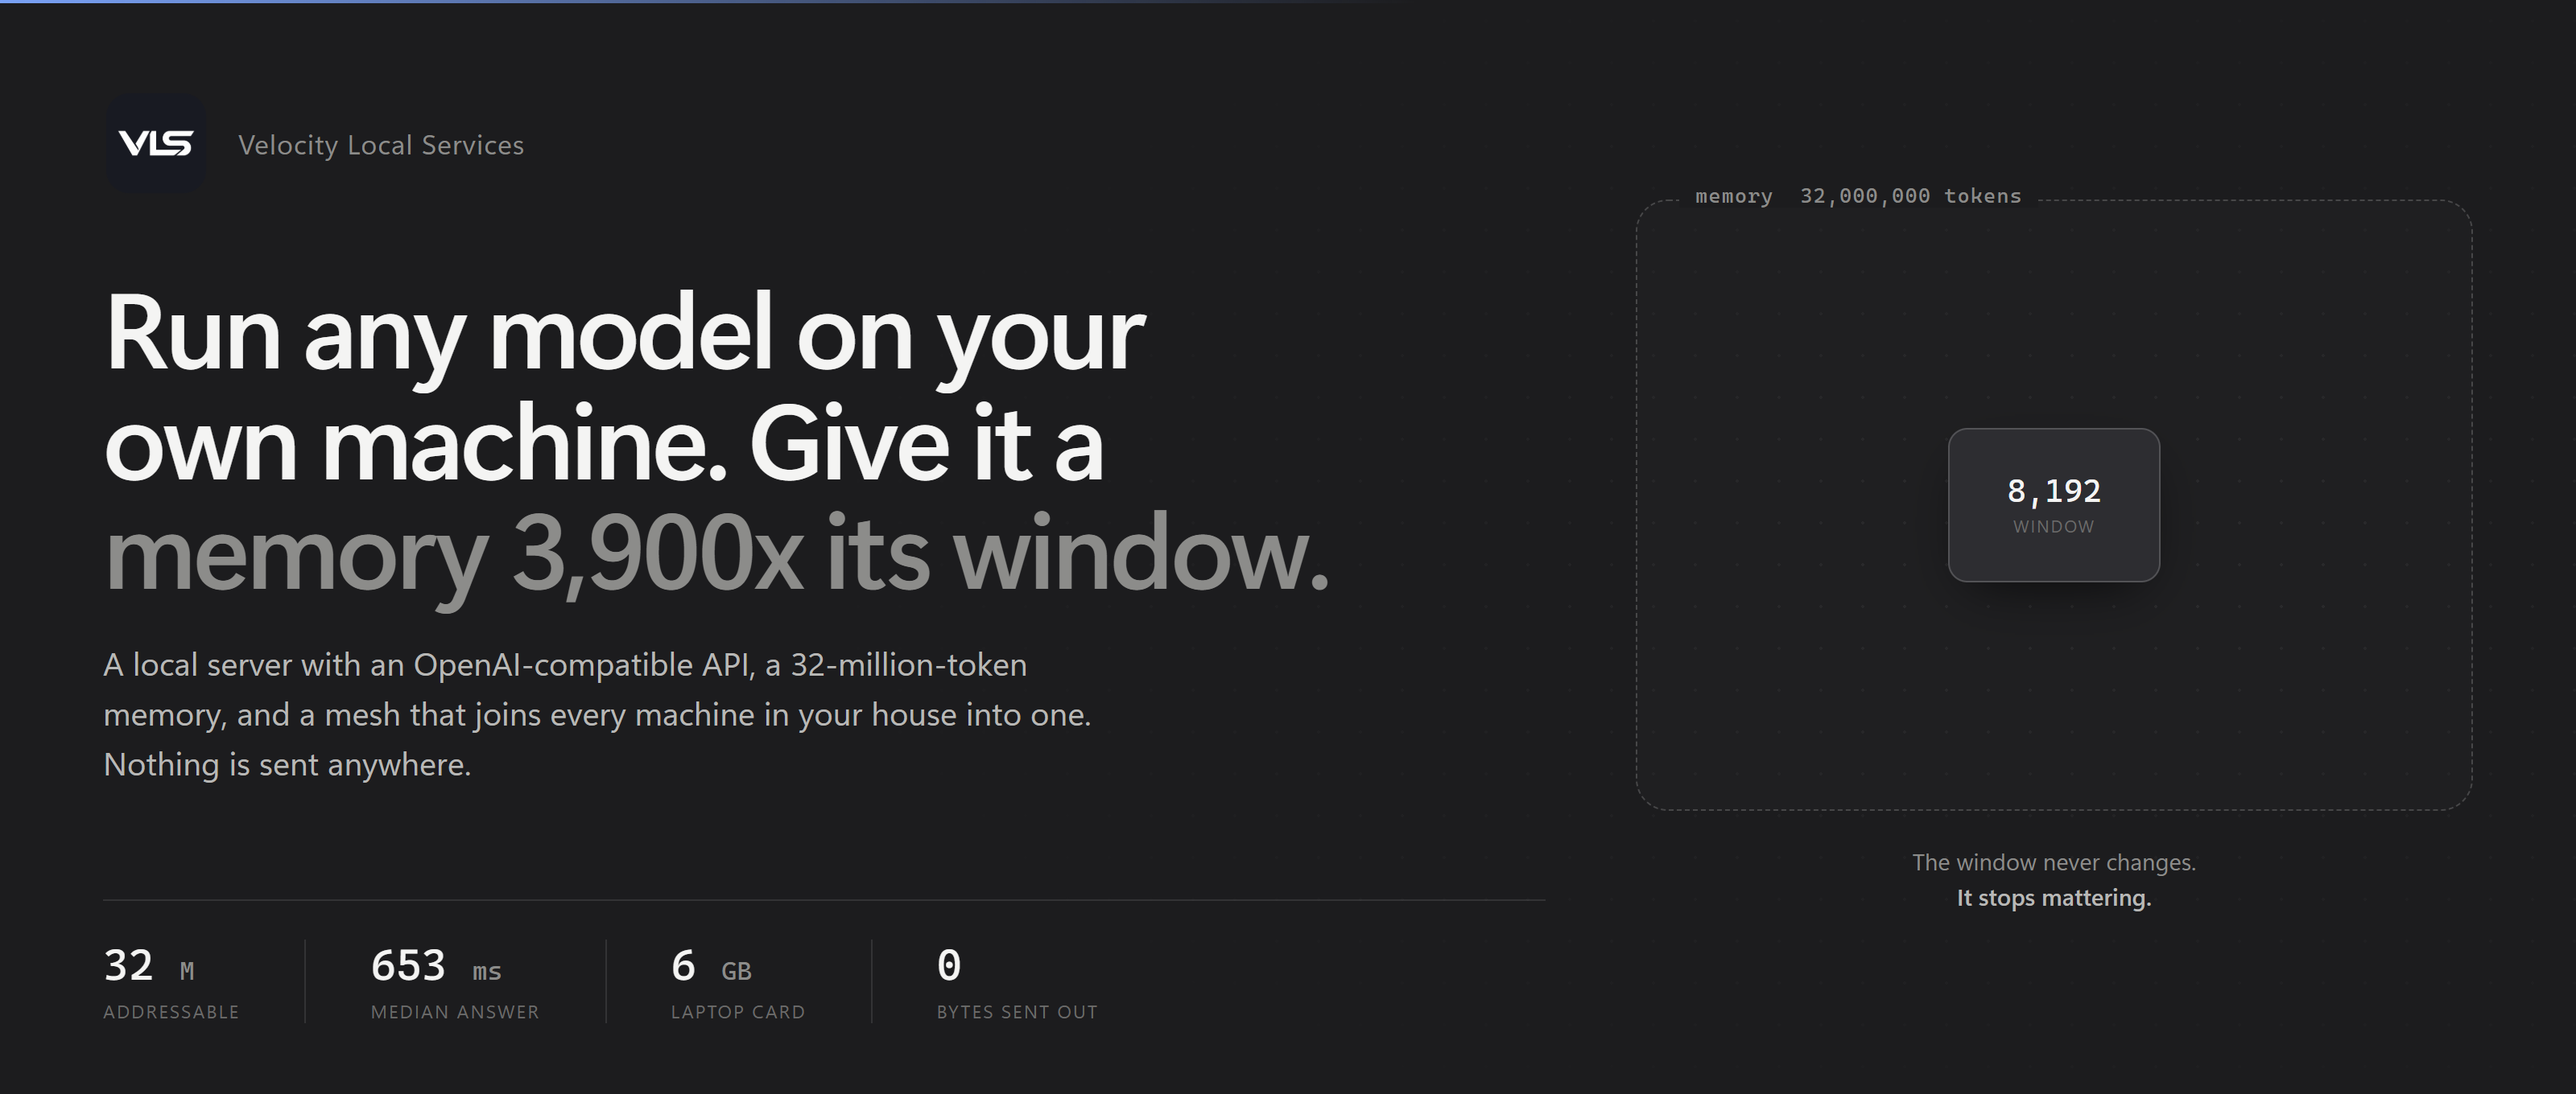
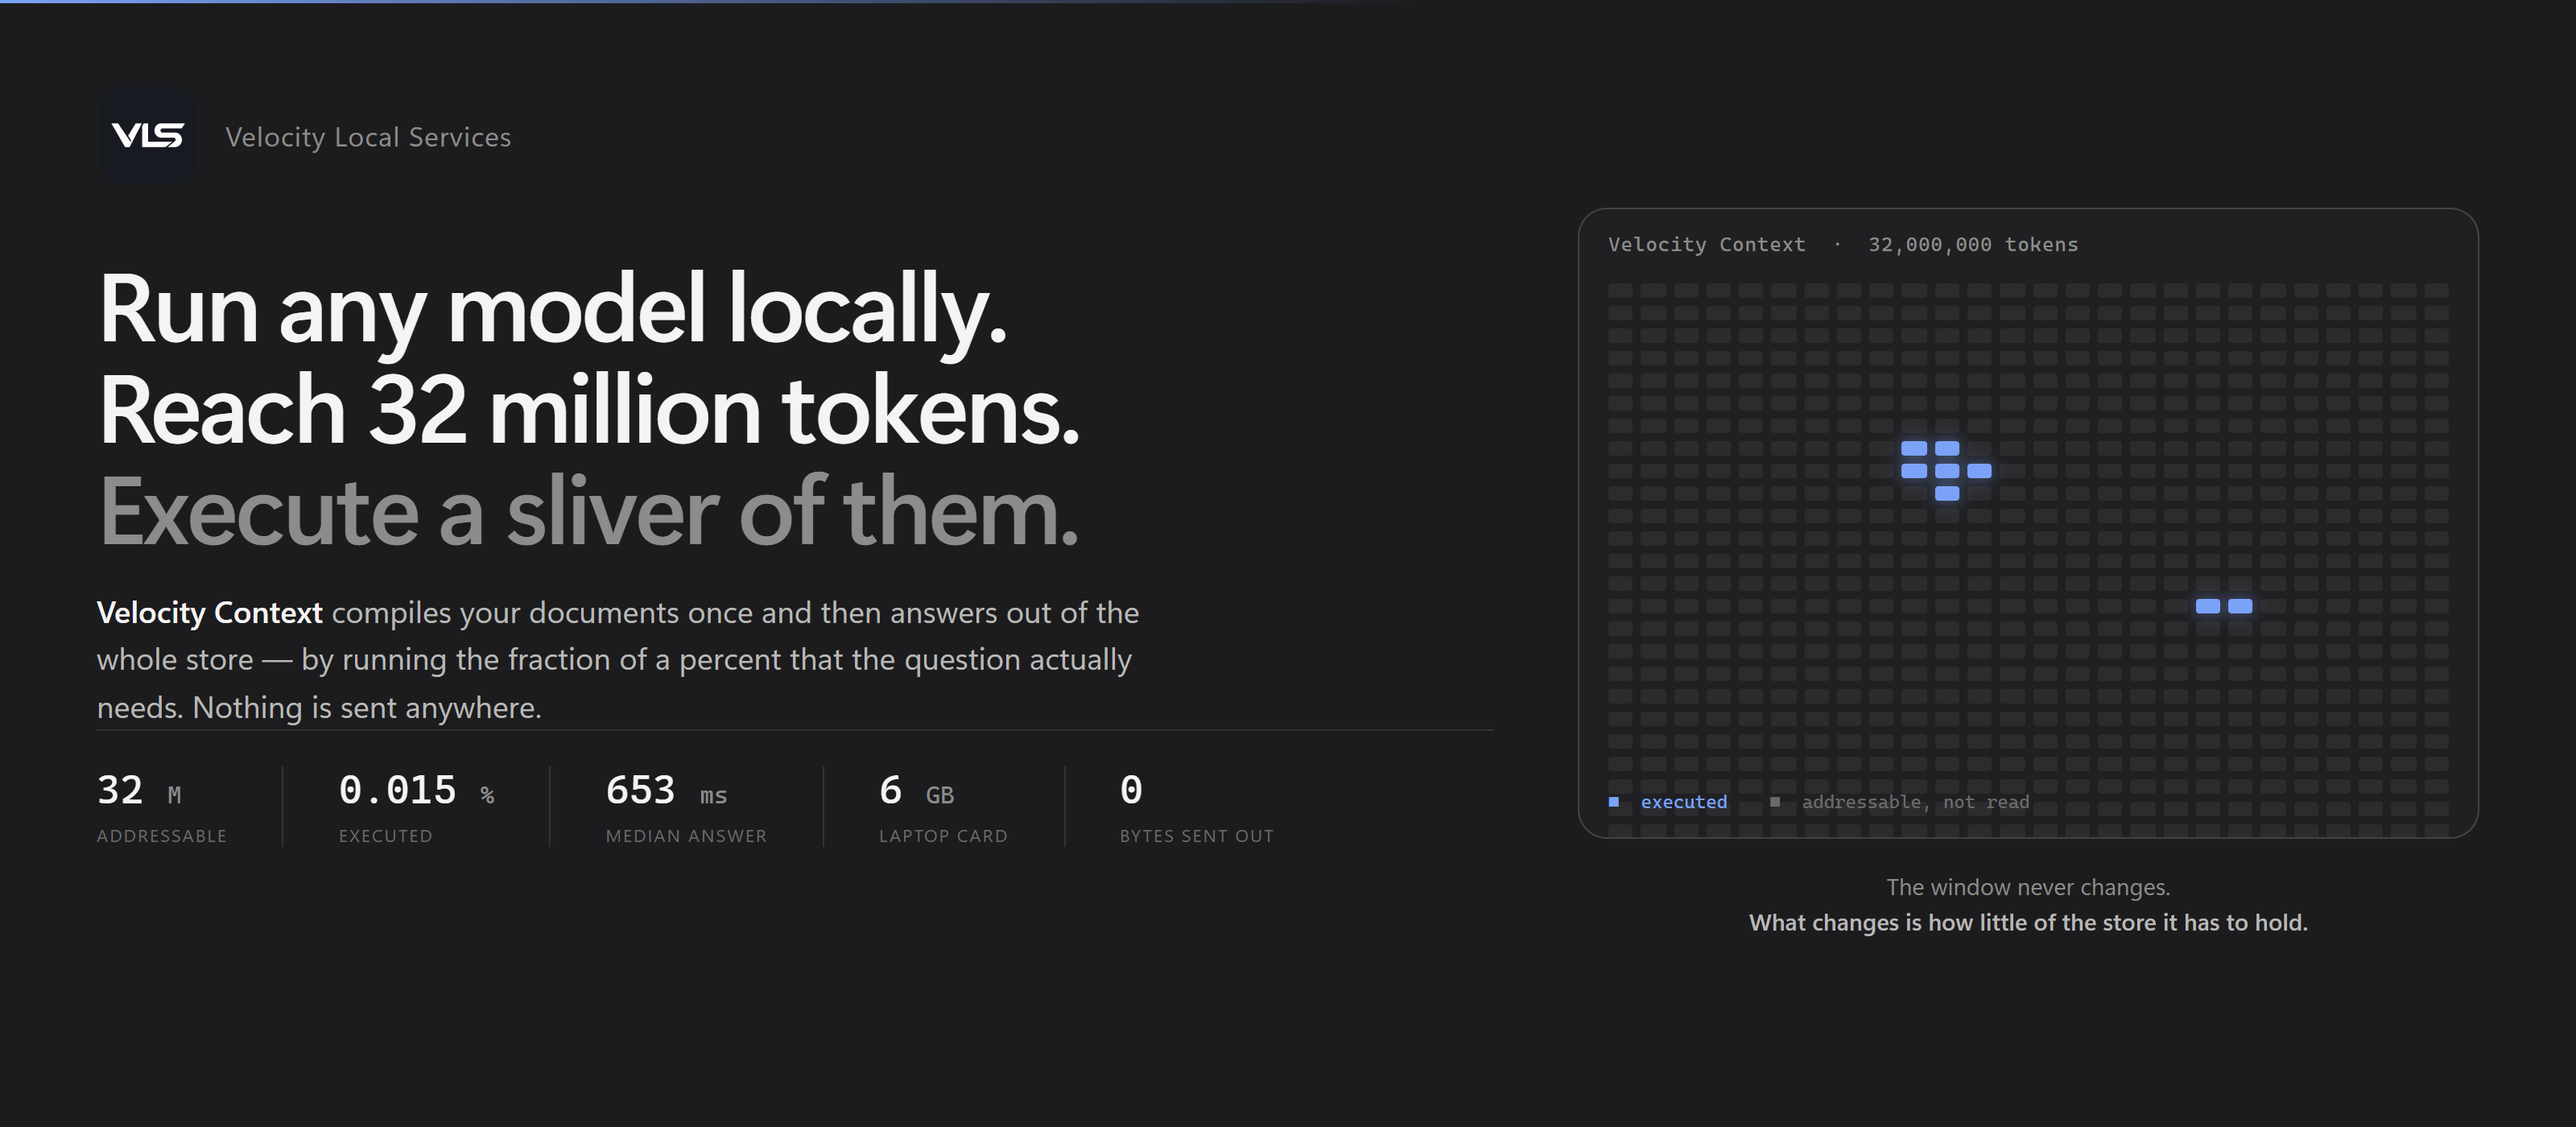
Call the technology by its name, and show what it actually does
The README described "a memory" and the banner drew a big box with a small box inside it. Both
were describing a side effect. The technology is Velocity Context, it has a name, and what makes
it worth having is not that the store is large - it is how little of the store a question runs.

The banner now draws that: every window in the store as a field of ticks, with the handful that
were executed lit. Five figures under it, and the one that matters is 0.015 percent.

The README gains a section for it with the measured numbers - 90 tokens of 128,000, 152 of a
million - labelled with the harness they came from and the null-context control that makes them
mean anything, and kept apart from the RULER tables rather than blended into them.

diff --git a/README.md b/README.md
@@ -1,6 +1,6 @@
 <div align="center">
 
-<img src=".github/banner.png" alt="VLS — run any model on your own machine, and give it a memory 3,900x its window" width="100%">
+<img src=".github/banner.png" alt="VLS — Velocity Context: reach 32 million tokens, execute a fraction of a percent" width="100%">
 
 <br><br>
 
@@ -19,7 +19,7 @@
 
 <div align="center">
 
-**[Install](#install)** &nbsp;·&nbsp; **[The 32M context](#the-32-million-token-context)** &nbsp;·&nbsp; **[Everything in it](#everything-in-it)** &nbsp;·&nbsp; **[Mesh](#5-mesh--every-machine-in-your-house-as-one)** &nbsp;·&nbsp; **[Benchmarks](#measured-not-claimed)** &nbsp;·&nbsp; **[API](#connect-anything)** &nbsp;·&nbsp; **[FAQ](#questions-people-actually-ask)**
+**[Install](#install)** &nbsp;·&nbsp; **[Velocity Context](#velocity-context)** &nbsp;·&nbsp; **[Everything in it](#everything-in-it)** &nbsp;·&nbsp; **[Mesh](#5-mesh--every-machine-in-your-house-as-one)** &nbsp;·&nbsp; **[Benchmarks](#measured-not-claimed)** &nbsp;·&nbsp; **[API](#connect-anything)** &nbsp;·&nbsp; **[FAQ](#questions-people-actually-ask)**
 
 </div>
 
@@ -67,7 +67,7 @@ it, and the usual answers are all bad ones:
   and hope the chunks that come back are the right ones. When the answer is wrong you cannot tell
   whether the model failed or the retrieval did.
 
-**VLS gives the model a memory instead of a bigger window.**
+**Velocity Context gives the model a store to reach into, instead of a bigger window.**
 
 You compile a folder once. Every question after that reaches the whole of it: the service works out
 which passages the answer needs, hands the model only those, and shows you a receipt of exactly
@@ -83,9 +83,11 @@ what it read. The model's window never changes — it stops mattering.
 
 ---
 
-## The 32-million-token context
+<a name="velocity-context"></a>
+## Velocity Context
 
-This is the part worth understanding, because it is not what people assume.
+This is our technology and the reason VLS exists. It is worth understanding, because it is not
+what people assume.
 
 ### It is not RAG
 
@@ -97,6 +99,28 @@ of its words are rare in this particular corpus, finds the windows that hold the
 from those windows to the ones they point at — a second hop, for questions whose answer sits beside
 somebody the question never named — and assembles what fits. A single linear pass over token ids
 with a hash lookup, which is what makes 32 million affordable without a GPU touching it.
+
+### How little of it runs
+
+This is the number the whole design is for, and it is the one people do not expect.
+
+A question does not read the store. It reaches into it — so what the model executes is a fraction
+of a percent of what it can reach, and that fraction *falls* as the store grows.
+
+| store | median tokens executed to answer | share of the store |
+|---|---:|---:|
+| 128 000 tokens | 90 | **0.07 %** |
+| 1 000 000 tokens | 152 | **0.015 %** |
+
+<sub>BABILong QA1 on the official lane, 100 samples each, same laptop. This is a different harness
+from the RULER tables further down and the two are never mixed: BABILong measures whether a fact
+planted in a haystack comes back, and it reports what was executed to get it. Scores on that lane
+were 92.0% at 128k and 86.0% at 1M, against <b>0.0%</b> for the same prompts with the text removed —
+the control that makes the rest of it mean anything.</sub>
+
+A conventional long-context model pays for every token in the window on every turn, in memory and
+in time. Velocity Context pays for the passage and leaves the rest on disk, which is why the answer
+takes the same half second whether the store holds one million tokens or thirty-two.
 
 ### What it costs
 
@@ -171,7 +195,7 @@ and it reads their headers without loading anything.
 
 <img src=".github/playground.png" alt="Playground" width="100%">
 
-Talk to the loaded model with a memory attached. A reasoning model's working is shown **as it
+Talk to the loaded model with a Velocity Context attached. A reasoning model's working is shown **as it
 happens** rather than behind a spinner, and **thinking is a switch beside the message box**, per
 conversation rather than per installation: on for a hard question, off for a lookup. On a short
 factual question that is the difference between 4.1 seconds and 0.2.
@@ -299,13 +323,13 @@ published 13-task RULER average, and we do not present it as one.</sub>
 
 ## Built on
 
-VLS is a **router with a memory**, not an inference engine of its own. Work goes to whichever
+VLS is a **router with Velocity Context behind it**, not an inference engine of its own. Work goes to whichever
 backend suits the model, and we are explicit about which parts are ours and which are other
 people's.
 
 | layer | what it is | whose |
 |---|---|---|
-| **Velocity Context** | The 32M-token memory: compiles documents, selects the passages a question needs, hands the model only those. This is what makes a small window stop mattering. | **ours** |
+| **Velocity Context** | Compiles your documents once, selects the passages a question needs, and hands the model only those — a fraction of a percent of the store per question. This is the technology; it is what makes a small window stop mattering. | **ours** |
 | **[llama.cpp](https://github.com/ggml-org/llama.cpp)** | The GGUF inference engine underneath every model VLS runs today. Georgi Gerganov and the ggml authors, MIT. We ship their `llama-server` unmodified. | *theirs* |
 | **Velocity / MTA** | Our own execution runtime for `.mfy` artifacts — the research line behind Velocity. Selected automatically for models built for it. | **ours** |
 
